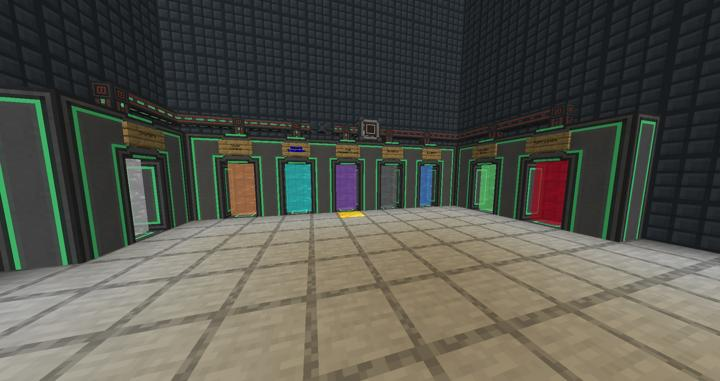
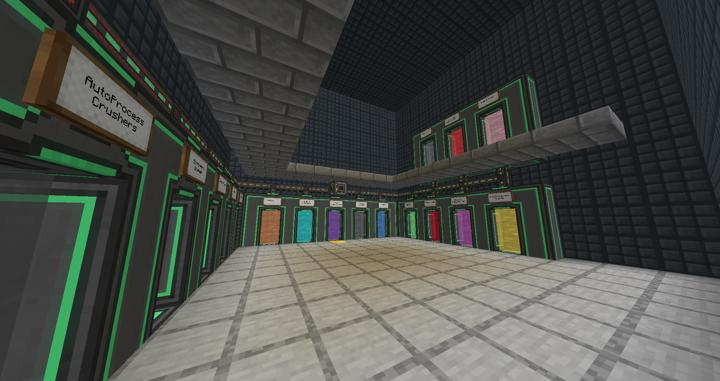
add pages rs

diff --git a/docs/Ko/systems/systems.md b/docs/Ko/systems/systems.md
@@ -40,7 +40,7 @@ create의 모든 케이스를 생산 할 수 있는 자동화 라인.
 유리블럭으로 둘러싸여 있어서 보수한다고 몇번이나 깨먹었다
 - [ Nature Aura 제단](na_altar.md)  
 Nature's Aura 모드의 기본 제단
-- [ 광물 가공 플랜트](mk_ore_processing_plant.md)  
+- [ 광물 정제 플랜트 - 5배](mk_ore_processing_plant_5x.md)  
 황산과 염화수소는 외부에 지은 황산 제조공정에서 긴빠이해서 사용하는 덕분에 굉장히 간소해짐
 - [ 나무 농장 (크리에이트 카트)](tree_farm_create_cart.md)  
 처음으로 지어진 나무 농장.  
@@ -70,24 +70,42 @@ RS에서 사용하는 자동 조합법을 보관하는 방.
 확장성 좋은 대량 에너지 저장 멀티블럭.
 - [ 메카니즘 자동 메탈러직 인퓨져](mk_auto_metallurgic_infuser.md)  
 RS 시스템에 연결되어 자동으로 병렬처리하는데 사용된다.
-- [ 메카니즘 자동 스멜터 프로세서](mk_auto_smeltery.md)  
-RS 시스템에서 자동 스멜팅에 사용하는 병렬 스멜터리 그룹.
-- [ 메카니즘 자동 인리치멘트 체임버](mk_auto_enrichment_chamber.md)  
-RS에 연결되어 자동으로 병렬 처리하는데 사용된다.
+- [ 메카니즘 자동 병렬 스멜터](mk_auto_smeltery.md)  
+32*9개의 쓰레드로 수천개의 아이템을 1분내에 구울 수 있다.
+- [ 메카니즘 자동 병렬 인리치멘트 체임버](mk_auto_enrichment_chamber.md)  
+32*9개의 쓰레드로 수천개의 아이템을 1분안에 처리한다
+- [ 메카니즘 자동 병렬 크러셔](mk_auto_crushers.md)  
+32*9개의 크러셔로 1000개의 아이템을 8초안에 처리한다.
+- [ 메카니즘 자동 컴프레싱 머신](mk_auto_compressing.md)  
+RS에 연결된 자동 컴프레싱 머신들
 - [ 메카니즘 핵 분열로](mk_fission_reactor.md)  
 메카니즘 모드의 대량 에너지 생산 시설이다.
+- [ 메카니즘 핵 융합로](mk_fusion_reactor.md)  
+에너지 제약으로부터의 해방
 - [ 메카니즘 황산 플랜트](mk_sulfer_plant.md)  
 물과 조약돌을 가공해 황산을 만드는 공정단지임. 전기 공급은 아래쪽으로 빼서 손도 깔끔
 - [ 몹 스포터 농장](mobspawner_farm.md)  
 컴팩트 차원에서 안전하게 몹을 잡을 수 있는 방이다.
+- [ 보타니아 염료 농장](botania_dye_farm.md)  
+모든 종류의 염료를 한 장치에서 양산 가능함
 - [ 블레이즈 킬링 챔버](blaze_killing_chamber.md)  
 블레이즈를 자동으로 생산 후 녹이는 방.
+- [ 써멀 익스팬션 자동 마그마 크루시블](te_auto_magma_crucible.md)  
+RS에 연결된 마그마 크루시블
+- [ 써멀 익스팬션 자동 스톤 익스트루더](te_stone_extruder.md)  
+다양한 종류의 돌을 무한으로 뽑아내는 곳
+- [ 써멀 익스팬션 자동 인덕션 스멜터](te_auto_induction_smelter.md)  
+RS에 연결된 인덕션 스멜터리
+- [ 써멀 익스팬션 자동 플루이드 인캡슐레이터 - 물](te_auto_fluid_encapsulator_water.md)  
+RS에 연결되어 자동으로 돌아가는 플루이드 인캡슐레이터
 - [ 에틸렌 발전소](mk_ethylene_generator.md)  
 농작물을 연료로 가공해 만든 에틸렌을 가스 버닝 제너레이터가 태우는 메인 발전 시설로, 틱당 약 15만FE를 생산함
 - [ 오컬티즘 매직 스토리지](occultism_magic_storage.md)  
 아이템 네트워크를 사용한 대량 아이템 스토리지.
 - [ 이머시브 엔지니어링 원예기](ie_garden_clothe.md)  
 그저 요리용으로 잠시 만들고 신경 안쓰고 있었는데 아무도 있는줄 모르는듯....
+- [ 자동 몹 농장](auto_mob_farm.md)  
+RS 내부의 몹 드랍템 수량을 체크하며 자동으로 스폰하고 잡아주는 무인 농장.
 - [ 주민팜 및 인챈트 주민 모음](viliager_farm.md)  
 누군가는 이걸 인챈트작이라고 하지 않는다고...
 - [ 철도 생성기](rail_generator.md)  

diff --git a/docs/Ko/buildings/compact_machine_dimension.md b/docs/Ko/buildings/compact_machine_dimension.md
@@ -1,0 +1,52 @@
+# 컴팩트 머신 차원
+
+한블럭 안의 주머니 차원 & 렉없는 클린 차원
+
+![asdf](../../asset/buildings/compact_machine_dimension/main.jpg)
+
+컴팩트 머신은 작은 공간 안에 큰 주머니 차원을 집어넣는 컨셉의 모드이다.
+각 크기에 맞는 컴팩트 머신 룸을 조합한 후, personal shrinking device를 통해 방 사이를 왔다갔다 할 수 있다.
+
+하지만 실제로는 인게임에 구현된 방식을 사용하여 렉없는 클린 차원으로 사용하고 있다. 
+실제로 사람이 작아지는 것이 아니라, 아예 별도의 차원의 1천 블럭 간격으로 부실 수 없는 방을 만들어 그곳으로 이동하며 눈속임을 하는 구조이기 때문이다.
+이 차원에는 주변 지형지물을 비롯한 어떠한 몬스터도 스폰되지 않는 곳이므로 렉으로 부터 클린하며, 청크 로딩을 걸어도 서버에 큰 부하를 주지 않는다. 
+
+또한, 텔레포터나 waystone 등의 텔레포트 기능을 사용하면 언제든 들어올 수 있으므로, 보호되어야 하거나 이동이 잦은 시설들은 아예 이곳이 두는것이 제일 좋다.
+
+**요약하자면 다음과 같은 장점이 있다.**
+- 차원 자체가 가벼워 렉없는 클린한 차원
+- 서버에 부하를 주는 대량 공정 또는 자동화 시설 장소로 적합
+- 이동하기 힘든 시설을 따로 관리하고 싶을 때
+
+현재는 RS의 대형 공정, 대량의 몹이 발생하는 몹 농장 등이 위치해 있으며, 이 사이를 왔다갔다 하기 편하도록 텔레포터 허브를 따로 두어 방 사이의 이동을 편하게 했다.
+
+<!-- ### 상위 장소 -->
+<!-- tag_source_open:link_list:child_spot -->
+<!-- tag_close -->
+
+<!-- ### 하위 장소 목록 -->
+<!-- tag_target_open:reverse_link_list:child_spot -->
+<!-- tag_arg:preset:spots_inside -->
+<!-- tag_close -->
+
+<!-- 보유 시설 목록 -->
+<!-- tag_target_open:reverse_link_list:building_spot -->
+<!-- tag_arg:preset:systems_inside -->
+### 보유 시설 목록
+|시설|세부 사항|
+|---|---|
+|[광물 정제 플랜트 - 5배](../systems/mk_ore_processing_plant_5x.md)|텔레포터 허브를 통해 이동할 수 있다.|
+|[리파인드 스토리지 네트워크 트랜젝션](../systems/rs_network_tranjection.md)|텔레포트 허브를 통해 이동할 수 있다.|
+|[리파인드 스토리지 디스크 드라이브 룸](../systems/rs_disk_drives.md)|텔레포트 허브를 통해 이동할 수 있다.  |
+|[리파인드 스토리지 블랙홀 룸](../systems/rs_black_hole.md)|텔레포터 허브를 통해 이동할 수 있다.|
+|[리파인드 스토리지 재고 제어](../systems/rs_stock_control.md)|텔레포트 허브를 통해 이동할 수 있다.|
+|[리파인드 스토리지 크래프터 룸](../systems/rs_crafters.md)|텔레포터 허브를 통해 이동 가능|
+|[메카니즘 인덕션 메트릭스](../systems/mk_induction_matrix.md)|텔레포터 허브로 이동할 수 있다.|
+|[메카니즘 자동 병렬 스멜터](../systems/mk_auto_smeltery.md)|288스레드의 대형 공정이 위치해있다.|
+|[메카니즘 자동 병렬 인리치멘트 체임버](../systems/mk_auto_enrichment_chamber.md)|288스레드 대형 공정이 위치해있다.|
+|[메카니즘 자동 병렬 크러셔](../systems/mk_auto_crushers.md)|288스레드의 대형 공정이 위치함.|
+|[몹 스포터 농장](../systems/mobspawner_farm.md)|텔레포터 허브로 이동할 수 있다.|
+|[써멀 익스팬션 자동 스톤 익스트루더](../systems/te_stone_extruder.md)|텔레포트 허브를 통해 이동할 수 있다.|
+|[자동 몹 농장](../systems/auto_mob_farm.md)|텔레포터 허브를 통해 이동할 수 있다.|
+|[텔레포터 트랜잭션](../systems/teleporter_hub.md)|컴팩트 머신 간의 이동을 돕는다|
+<!-- tag_close -->

diff --git a/docs/Ko/systems/rs_main.md b/docs/Ko/systems/rs_main.md
@@ -32,12 +32,26 @@ RS가 제공하는 기능은 다음과 같다.
 - 무선으로 네트워크에 접근하거나, 무선으로 확장 가능한 네트워크 제공
 
 다음과 같이 무선으로 엑세스가 가능한 터미널을 제공하며, 조합 테이블 및 조합 요청도 보낼 수 있다. 또한, 오컬티즘의 매직 스토리지와 다르게 액체도 다룰 수 있다.
-![asdf](../../asset/blank_img.jpg)
+![asdf](../../asset/systems/rs_main/fluid.jpg)
 
 자동 조합은 다음과 같이 패턴 터미널에서 인코딩되며, 인코딩된 패턴을 Crafter안에 넣어서 등록하면 이제 RS 시스템에서 해당 조합법을 사용할 수 있게 된다.  
-Crafter Manager를 사용하면 네트워크에 연결된 모든 Crafter에 접근할 수 있으며, 이를 통해 직접 Crafter에 접근하지 않아도 네트워크에 패턴 등록이 가능해진다.
-![asdf](../../asset/blank_img.jpg)
 
+![asdf](../../asset/systems/rs_main/auto_pattern.jpg)
+
+Crafter Manager를 사용하면 네트워크에 연결된 모든 Crafter에 접근할 수 있으며, 이를 통해 직접 Crafter에 접근하지 않아도 네트워크에 패턴 등록이 가능해진다.
+![asdf](../../asset/systems/rs_main/crafter_manager.jpg)
+
+Crafting Monitor는 시킨 자동 조합이 얼마나 진행되고 있는지를 확인할 수 있다.
+
+![asdf](../../asset/systems/rs_main/crafting_monitor.jpg)
+
+### 2023-05-07 대규모 업데이트
+
+이전
+![asdf](../../asset/systems/rs_main/old.jpg)
+
+이후
+![asdf](../../asset/systems/rs_main/main.jpg)
 
 ### 위치
 <!-- tag_source_open:link_list:building_spot -->

diff --git a/docs/Ko/systems/teleporter_hub.md b/docs/Ko/systems/teleporter_hub.md
@@ -4,7 +4,8 @@
 
 ![asdf](../../asset/systems/teleporter_hub/main.jpg)
 
-컴팩트 머신 차원 안에 위치한 컴팩트 머신 간의 텔레포터를 전부 연결하는 허브이다.
+컴팩트 머신 차원 안에 위치한 컴팩트 머신 간의 텔레포터를 전부 연결하는 허브이다.  
+모든 컴팩트 머신은 반드시 텔레포터 허브 게이트도 같이 지어야 하며, 반드시 텔레포터 트랜젝션에 게이트가 있다.
 
 내부에 서로 다른 컴팩트 머신 방을 왔다갔다 하기 위한 텔레포터들이 있으며,
 중앙은 compact mahine tranjection으로, 오버월드에서 이곳으로 넘어오는 메인 게이트 같은 텔레포터이다.  
@@ -14,9 +15,20 @@
 
 이 시설이 없으면, 컴팩트 머신 차원 안의 다른 시설들을 사용할 때, 매번 밖으로 나간 다음 다시 들어가야 한다. 
 
+텔레포터 트랜잭션으로 이용할 수 있는 모든 방은 [컴팩트 머신 차원](../buildings/compact_machine_dimension.md)에서 확인할 수 있다.
+
+### 2023-05-07 새로운 방 많이 추가
+
+이전
+![asdf](../../asset/systems/teleporter_hub/old.jpg)
+
+이후
+![asdf](../../asset/systems/teleporter_hub/main.jpg)
+
 ### 위치
 <!-- tag_source_open:link_list:building_spot -->
-- 컴팩트 머신 차원  
+- [컴팩트 머신 차원](../buildings/compact_machine_dimension.md)  
+컴팩트 머신 간의 이동을 돕는다
 <!-- tag_close -->
 
 ## 참여자

diff --git a/docs/Ko/SUMMARY.md b/docs/Ko/SUMMARY.md
@@ -26,6 +26,7 @@
   * [붉은 시계탑](buildings/red_clocktower.md)
   * [식물의 방](buildings/room_of_plant.md)
   * [바람이 머무는 식당](buildings/windy_restaurant.md)
+  * [컴팩트 머신 차원](buildings/compact_machine_dimension.md)
 * [시스템](systems/systems.md)
   * [나무 농장 (크리에이트 카트)](systems/tree_farm_create_cart.md)
   * [쿠킹 벙커](systems/cooking_bunker.md)
@@ -42,7 +43,7 @@
   * [텔레포터 허브](systems/teleporter_hub.md)
   * [자동 몹 농장](systems/auto_mob_farm.md)
   * [메카니즘 에틸렌 발전기](systems/mk_ethylene_generator.md)
-  * [메카니즘 광물 정제 플랜트](systems/mk_ore_processing_plant.md)
+  * [메카니즘 광물 정제 플랜트 - 5배](systems/mk_ore_processing_plant_5x.md)
   * [메카니즘 황산 플렌트](systems/mk_sulfer_plant.md)
   * [메카니즘 리튬 플랜트](systems/mk_lithum_plant.md)
   * [메카니즘 수동 프로세서들](systems/mk_manual_processors.md)

diff --git a/docs/Ko/buildings/buildings.md b/docs/Ko/buildings/buildings.md
@@ -23,7 +23,7 @@ Create 시스템을 위한 모듈러 동력 전달 플랫폼.
 이 서버 튜토리얼 이후 가장 처음 만든 건축물.
 - [ 식물의 방](room_of_plant.md)  
 보타니아를 다루는 방.
-- [ 연구소 (메인)](lab.md)  
+- [ 연구소 - 메인](lab.md)  
 언덕 지하에 있는 연구소 단지.
 - [ 연구소 - 메카](lab_meka_lab.md)  
 메카니즘 및 리파인드 스토리지를 담당하는 연구실
@@ -35,6 +35,8 @@ Create 시스템을 위한 모듈러 동력 전달 플랫폼.
 지옥으로 통하는 메인 게이트
 - [ 천문대](observatory.md)  
 create 회전 베어링을 이용한 접이식 망원경을 볼 수 있는 천문대.
+- [ 컴팩트 머신 차원](compact_machine_dimension.md)  
+한블럭 안의 주머니 차원 & 렉없는 클린 차원
 - [ 태초의 건축물](primitive_building.md)  
 서버에서 만든 최초의 건축물.
 <!-- systems_list_dest_close -->

diff --git a/docs/Ko/systems/mk_ore_processing_plant_5x.md b/docs/Ko/systems/mk_ore_processing_plant_5x.md
@@ -1,4 +1,4 @@
-# 광물 가공 플랜트
+# 광물 정제 플랜트 - 5배
 
 황산과 염화수소는 외부에 지은 황산 제조공정에서 긴빠이해서 사용하는 덕분에 굉장히 간소해짐
 
@@ -7,7 +7,7 @@
 
 <!-- tag_target_open:frame:ore_refinement_generations -->
 :::tip 광물 정제 시스템 변천사
-화로 -> [수동 2배 공정](mk_manual_processors.md)-> [자동 5배 공정](mk_ore_processing_plant.md) -> 대형 병렬 자동 4배 공정
+화로 -> [수동 2배 공정](mk_manual_processors.md)-> [자동 5배 공정](mk_ore_processing_plant_5x.md) -> 대형 병렬 자동 4배 공정
 :::
 <!-- tag_close -->
 
@@ -17,7 +17,8 @@
 
 ### 위치
 <!-- tag_source_open:link_list:building_spot -->
-- 컴팩트 머신 차원
+- [컴팩트 머신 차원](../buildings/compact_machine_dimension.md)  
+텔레포터 허브를 통해 이동할 수 있다.
 <!-- tag_close -->
 
 ### 참여자

diff --git a/docs/Ko/members/jasuk500.md b/docs/Ko/members/jasuk500.md
@@ -53,7 +53,7 @@
 ### 참여 목록
 |문서|기여 내용|
 |---|---|
-|[광물 가공 플랜트](../systems/mk_ore_processing_plant.md)|텔레포터 배치|
+|[광물 정제 플랜트 - 5배](../systems/mk_ore_processing_plant_5x.md)|텔레포터 배치|
 |[나무 농장 (크리에이트 카트)](../systems/tree_farm_create_cart.md)|기획 및 시스템 개발|
 |[네더 금 농장](../systems/nether_gold_farm.md)|텔레포터 배치 / RS 네트워크 연결 관리|
 |[레이저 드릴](../systems/laser_drill.md)|기계 배치 및 제작|

diff --git a/docs/Ko/members/BANJUHARA.md b/docs/Ko/members/BANJUHARA.md
@@ -26,7 +26,7 @@
 ### 참여 목록
 |문서|기여 내용|
 |---|---|
-|[광물 가공 플랜트](../systems/mk_ore_processing_plant.md)|파이프라인 설계 및 제작 / 유지보수|
+|[광물 정제 플랜트 - 5배](../systems/mk_ore_processing_plant_5x.md)|파이프라인 설계 및 제작 / 유지보수|
 |[러브하우수 ](../systems/love_house.md)|최다우수이용고객|
 |[레이저 드릴](../systems/laser_drill.md)|최초 시작|
 |[리튬 플랜트](../systems/mk_lithum_plant.md)|생산시설 설계 및 제작|

diff --git a/docs/Ko/frames/frames_systems.md b/docs/Ko/frames/frames_systems.md
@@ -33,6 +33,6 @@
 ### 광물 정제 시스템 변천사
 <!-- tag_source_open:copy:ore_refinement_generations -->
 :::tip 광물 정제 시스템 변천사
-화로 -> [수동 2배 공정](../systems/mk_manual_processors.md)-> [자동 5배 공정](../systems/mk_ore_processing_plant.md) -> 대형 병렬 자동 4배 공정
+화로 -> [수동 2배 공정](../systems/mk_manual_processors.md)-> [자동 5배 공정](../systems/mk_ore_processing_plant_5x.md) -> 대형 병렬 자동 4배 공정
 :::
 <!-- tag_close -->

diff --git a/docs/Ko/systems/mk_auto_enrichment_chamber.md b/docs/Ko/systems/mk_auto_enrichment_chamber.md
@@ -19,7 +19,8 @@ XNet의 아이템 파이핑은 아이템 슬롯을 순회하여 동작하므로,
 
 ### 위치
 <!-- tag_source_open:link_list:building_spot -->
-- 컴팩트 머신 차원
+- [컴팩트 머신 차원](../buildings/compact_machine_dimension.md)  
+288스레드 대형 공정이 위치해있다.
 - [연구소 - 메카](../buildings/lab_meka_lab.md)  
 지금은 이곳에서 규모가 커짐에 따라 컴팩트 머신 차원으로 옮겼다
 <!-- tag_close -->
